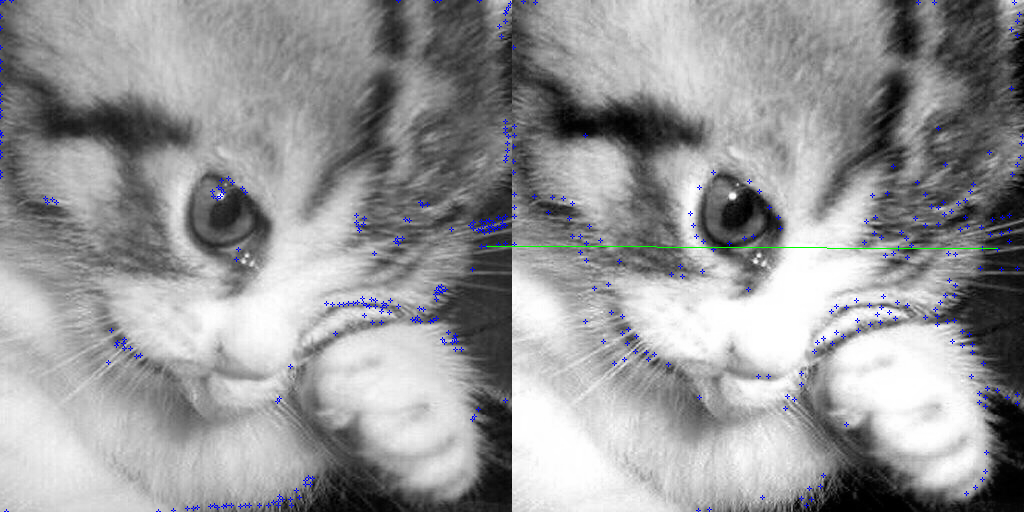
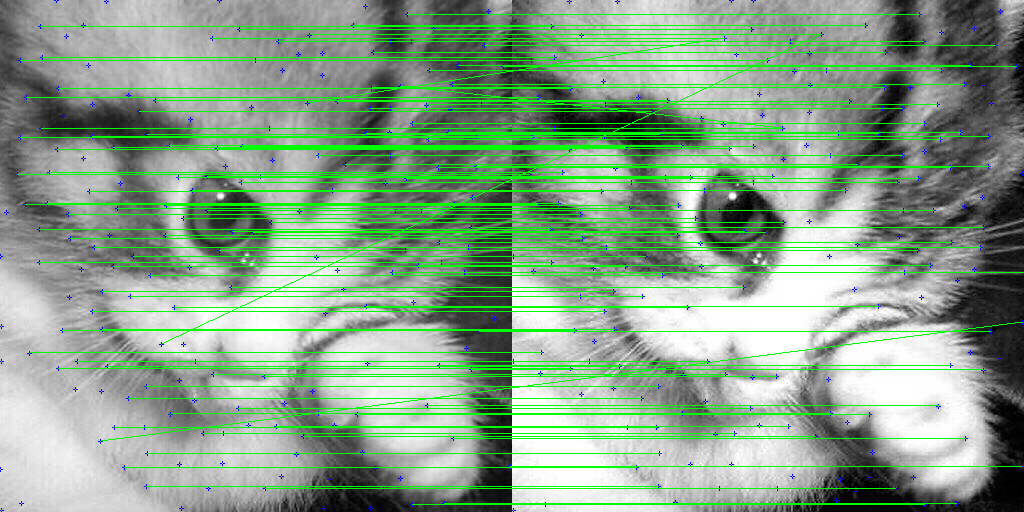
lab4 попытка 2

diff --git a/points/Harris.cpp b/points/Harris.cpp
@@ -4,48 +4,47 @@
 
 #include "Harris.h"
 #include "DataSaver.h"
+#include "../borders/ZeroBorderEffect.h"
 
 vector<InterestingPoint> Harris::makeHarris(DoubleImage &image, BorderEffectAction &action) {
-    int width = image.getWidth();
-    int height = image.getHeight();
-
-    auto gaussKernel = KernelFactory::GetGauss(WINDOW_RADIUS);
+    auto gauss = KernelFactory::GetGauss(WINDOW_RADIUS);
+    int gaussK = gauss.getWidth() / 2;
 
     auto dx = FiltersImplementation::derivativeX(image);
     auto dy = FiltersImplementation::derivativeY(image);
-    auto mins = vector<vector<double>>(width, vector<double>(height));
 
-    for (int x = 0; x < width; x++) {
-        for (int y = 0; y < height; y++) {
-            vector<vector<double>> currentMatrix(2, vector<double>(2, 0));
-            for (int u = -WINDOW_RADIUS; u <= WINDOW_RADIUS; u++) {
+    DoubleImage lambdas = image.withSameSize();
+    for(int x = 0; x < image.getWidth(); x++) {
+        for (int y = 0; y < image.getHeight(); y++) {
+            double A = 0, B = 0, C = 0;
+
+            for (int u = -WINDOW_RADIUS; u <= WINDOW_RADIUS; u++)
                 for (int v = -WINDOW_RADIUS; v <= WINDOW_RADIUS; v++) {
-                    double Ix = action.getPixel(dx, x + u, y + v);
-                    double Iy = action.getPixel(dy, x + u, y + v);
-                    double gaussPoint = gaussKernel(u + WINDOW_RADIUS, v + WINDOW_RADIUS);
-                    currentMatrix[0][0] += Ix * Ix * gaussPoint;
-                    currentMatrix[0][1] += Ix * Iy * gaussPoint;
-                    currentMatrix[1][0] += Ix * Iy * gaussPoint;
-                    currentMatrix[1][1] += Iy * Iy * gaussPoint;
+                    double multiplier = gauss(u + gaussK, v + gaussK);
+
+                    A += multiplier * sqr(action.getPixel(dx, x + u, y + v));
+                    B += multiplier * action.getPixel(dx, x + u, y + v) * action.getPixel(dy, x + u, y + v);
+                    C += multiplier * sqr(action.getPixel(dy, x + u, y + v));
                 }
+
+            lambdas(x, y) = calcLambdaMin(A, B, C);
+        }
+    }
+
+    lambdas = lambdas.normalize();
+    auto result = lambdas.withSameSize();
+
+    for(int x = 0; x < lambdas.getWidth(); x++) {
+        for (int y = 0; y < lambdas.getHeight(); y++) {
+            if (lambdas(x, y) <= MIN_PROBABILITY || hasLargerNeighbour(lambdas, x, y)) {
+                continue;
             }
-            vector<double> eigenvalues = getEigenValues(currentMatrix);
-            mins[x][y] = min(eigenvalues[0], eigenvalues[1]);
+            result(x, y) = lambdas(x, y);
         }
     }
-    auto candidates = DetectorUtil::getCandidates(mins, width, height);
-    auto filteredCandidates = vector<InterestingPoint>();
-    for (InterestingPoint point: candidates) {
-        if (point.getProbability() > MIN_PROBABILITY) {
-            filteredCandidates.push_back(point);
-        }
-    }
-    sort(filteredCandidates.begin(), filteredCandidates.end(), [](const InterestingPoint & a, const InterestingPoint & b) -> bool {
-        return b.getProbability() > a.getProbability();
-    });
-//    int right = filteredCandidates.size() > MAX_SIZE ? MAX_SIZE : filteredCandidates.size();
-    return DataSaver::saveData(image, mins, filteredCandidates, "Harris");
-//    return vector<InterestingPoint>(&filteredCandidates[0], &filteredCandidates[right]);
+
+    auto points = DetectorUtil::matToPoints(result);
+    return DetectorUtil::filter(points, 100, min(image.getHeight() / 2, image.getWidth() / 2));
 }
 
 vector<double> Harris::getEigenValues(vector<vector<double>> &matrix) {
@@ -69,4 +68,30 @@ vector<double> Harris::getEigenValues(vector<vector<double>> &matrix) {
 
 double Harris::sqr(double value) {
     return value * value;
+}
+
+double Harris::calcLambdaMin(double A, double B, double C) {
+    double a = 1, b = -(A + C), c = A * C - B * B;
+    double D = b * b - 4 * a * c;
+
+    if (D < 0 && D > -1e-6) D = 0;
+    if (D < 0) return 0;
+
+    double lambda1 = (-b + sqrt(D)) / (2 * a);
+    double lambda2 = (-b - sqrt(D)) / (2 * a);
+
+    return min(lambda1, lambda2);
+}
+
+bool Harris::hasLargerNeighbour(DoubleImage& image, int x, int y) {
+    ZeroBorderEffect effect;
+    for(int dx = -1; dx <= 1; dx++) {
+        for (int dy = -1; dy <= 1; dy++) {
+            if (dx == 0 && dy == 0)
+                continue;
+            if (effect.getPixel(image, x + dx, y + dy) - image(x, y) > 1e-4)
+                return true;
+        }
+    }
+    return false;
 }

diff --git a/descriptors/HistogramProcessor.cpp b/descriptors/HistogramProcessor.cpp
@@ -13,8 +13,66 @@ vector<Descriptor> HistogramProcessor::createDescriptors(DoubleImage &img) {
 
     Harris harris;
     auto points = harris.makeHarris(img);
+    auto gauss = KernelFactory::GetGauss(3);
 
-    return createDescriptors(gradient, gradientAngle, points);
+    vector<Descriptor> descriptors;
+    for (auto &point: points) {
+        vector<vector<vector<double>>> bins = calculateHistograms(gradient, x, y, gauss, gridSize, 4, basketSize, point, 0);
+        vector<double> v(gridSize * gridSize * basketSize);
+        for(int i = 0; i < gridSize; i++) {
+            for (int j = 0; j < gridSize; j++) {
+                for (int k = 0; k < basketSize; k++) {
+                    v[i * gridSize * basketSize + j * basketSize + k] = bins[i][j][k];
+                }
+            }
+        }
+        Descriptor d = Descriptor(point);
+        d.setDescriptor(v);
+        descriptors.push_back(d);
+    }
+    return descriptors;
+}
+
+vector<vector<vector<double>>> HistogramProcessor::calculateHistograms(DoubleImage& gradient, DoubleImage& dx, DoubleImage& dy, DoubleImage& gauss,
+                                        int gridSize, int blockSize, int binsCount,
+                                        InterestingPoint& center, double angle) {
+    CopyBorderEffect effect;
+    int gaussK = gauss.getWidth() / 2;
+
+    double PI = 3.141592653589793238462643;
+    vector<vector<vector<double>>> bins(gridSize, vector<vector<double>>(gridSize, vector<double>(binsCount)));
+    double step = 2 * PI / binsCount;
+
+    int from = gridSize * blockSize / 2, to = gridSize * blockSize - from;
+    for(int u = -from; u < to; u++)
+        for(int v = -from; v < to; v++) {
+            int x = center.getX() + u, y = center.getY() + v;
+
+            double theta = atan2(effect.getPixel(dy, x, y), effect.getPixel(dx, x, y)) + PI;
+            double value = effect.getPixel(gradient, x, y);
+
+            int rotatedU = (int)round(u * cos(angle) + v * sin(angle));
+            int rotatedV = (int)round(v * cos(angle) - u * sin(angle));
+
+            double rotatedTheta = theta - angle;
+            if(rotatedTheta < 0) rotatedTheta += PI * 2;
+
+            int column = (rotatedU + from) / blockSize;
+            int row = (rotatedV + from) / blockSize;
+
+            if(column < 0 || column >= gridSize || row < 0 || row >= gridSize) continue;
+
+            value = value * gauss(rotatedU + gaussK, rotatedV + gaussK);
+
+            int leftBin = min((int)floor(rotatedTheta / step), binsCount - 1);
+            int rightBin = (leftBin + 1) % binsCount;
+
+            double ratio = fmod(rotatedTheta, step) / step;
+            bins[row][column][leftBin] += value * (1 - ratio);
+            bins[row][column][rightBin] += value * ratio;
+        }
+
+    return bins;
 }
 
 vector<Descriptor> HistogramProcessor::createDescriptors(DoubleImage &gradient, DoubleImage &gradientAngle,

diff --git a/points/DetectorUtil.cpp b/points/DetectorUtil.cpp
@@ -41,7 +41,7 @@ vector<InterestingPoint> DetectorUtil::getCandidates(vector<vector<double>> valu
 vector<InterestingPoint> DetectorUtil::filter(vector<InterestingPoint> &points, int maxSize, int maxRadius) {
     vector<InterestingPoint> result(points);
     int r = 0;
-    /*while (result.size() > maxRadius && r < maxSize) {
+    while (result.size() > maxRadius && r < maxSize) {
         for (int i = 0; i < result.size(); i++) {
             for (int j = 0; j < result.size(); j++) {
                 double dist = InterestingPoint::distance(result[i], result[j]);
@@ -55,7 +55,7 @@ vector<InterestingPoint> DetectorUtil::filter(vector<InterestingPoint> &points, 
             }
         }
         r++;
-    }*/
+    }
     sort(result.begin(), result.end(), [](const InterestingPoint & a, const InterestingPoint & b) -> bool {
         return b.getProbability() > a.getProbability();
     });
@@ -63,4 +63,12 @@ vector<InterestingPoint> DetectorUtil::filter(vector<InterestingPoint> &points, 
         result = vector<InterestingPoint>(&result[0], &result[200]);
     }
     return result;
+}
+
+vector<InterestingPoint> DetectorUtil::matToPoints(DoubleImage &mat) {
+    vector<InterestingPoint> list;
+    for (int x = 0; x < mat.getWidth(); x++)
+        for (int y = 0; y < mat.getHeight(); y++)
+            if (mat(x, y) > 1e-6) list.emplace_back(x, y, mat(x, y));
+    return list;
 }

diff --git a/image/DoubleImage.cpp b/image/DoubleImage.cpp
@@ -16,7 +16,7 @@ DoubleImage::DoubleImage(const QString& name) {
     data = vector<double>(width * height);
     for (int x = 0; x < width; x++) {
         for (int y = 0; y < height; y++) {
-            (*this)(x, y) = (0.229 * image.pixelColor(x, y).red() + 0.587 * image.pixelColor(x, y).green() + 0.114 * image.pixelColor(x, y).blue()) / 255.;
+            (*this)(x, y) = (0.213 * image.pixelColor(x, y).red() + 0.715 * image.pixelColor(x, y).green() + 0.072 * image.pixelColor(x, y).blue()) / 255.;
         }
     }
 }
@@ -99,5 +99,9 @@ DoubleImage::DoubleImage(const DoubleImage &image) {
     for (int i = 0; i < size(); i++) {
         data[i] = image.data[i];
     }
+}
+
+DoubleImage DoubleImage::withSameSize() {
+    return DoubleImage(vector<double>(width * height), height, width);
 }
 

diff --git a/descriptors/HistogramProcessor.h b/descriptors/HistogramProcessor.h
@@ -7,6 +7,7 @@
 
 
 #include "../image/DoubleImage.h"
+#include <cmath>
 #include "MatchData.h"
 #include "DescriptorUtil.h"
 #include "HistogramDescriptor.h"
@@ -23,6 +24,10 @@ private:
     vector<Descriptor> createDescriptors(DoubleImage &img);
 
     vector<Descriptor> createDescriptors(DoubleImage &gradient, DoubleImage &gradientAngle, vector<InterestingPoint> &points);
+
+    vector<vector<vector<double>>> calculateHistograms(DoubleImage& gradient, DoubleImage& dx, DoubleImage& dy, DoubleImage& gauss,
+                                                      int gridSize, int blockSize, int binsCount,
+                                                       InterestingPoint& center, double angle);
 
 public:
     DoubleImage &getFirstImage();

diff --git a/points/Harris.h b/points/Harris.h
@@ -21,10 +21,12 @@ private:
     static constexpr CopyBorderEffect DEFAULT_BORDER = CopyBorderEffect();
     vector<double> getEigenValues(vector<vector<double>> &mat);
     double sqr(double value);
-    double MIN_PROBABILITY = 0.005;
+    double MIN_PROBABILITY = 0.01;
     const int WINDOW_RADIUS = 3;
+    double calcLambdaMin(double A, double B, double C);
+    bool hasLargerNeighbour(DoubleImage& image, int x, int y);
 public:
-    vector<InterestingPoint> makeHarris(DoubleImage &image, BorderEffectAction &action =  (BorderEffectAction &) DEFAULT_BORDER);
+    vector<InterestingPoint> makeHarris(DoubleImage &image, BorderEffectAction &action = (BorderEffectAction &) DEFAULT_BORDER);
 };
 
 

diff --git a/points/DetectorUtil.h b/points/DetectorUtil.h
@@ -9,6 +9,7 @@
 #include <map>
 #include <algorithm>
 #include "InterestingPoint.h"
+#include "../image/DoubleImage.h"
 
 using namespace std;
 
@@ -18,6 +19,8 @@ public:
     static vector<InterestingPoint> getCandidates(vector<vector<double>> values, int width, int height);
 
     static vector<InterestingPoint> filter(vector<InterestingPoint> &points, int maxSize, int maxRadius);
+
+    static vector<InterestingPoint> matToPoints(DoubleImage& mat);
 };
 
 

diff --git a/descriptors/DescriptorUtil.cpp b/descriptors/DescriptorUtil.cpp
@@ -39,7 +39,7 @@ Descriptor* DescriptorUtil::getClosest(Descriptor &descriptor,vector<Descriptor>
     int b = getMinIndex(distances, a);
 
     double r = distances[a] / distances[b];
-    return (r <= 0.5) ? &descriptors[a] : nullptr;
+    return (r <= 0.8) ? &descriptors[a] : nullptr;
 }
 
 int DescriptorUtil::getMinIndex(vector<double> distances, int excludeIndex) {

diff --git a/descriptors/Descriptor.h b/descriptors/Descriptor.h
@@ -11,11 +11,11 @@
 
 class Descriptor {
 protected:
-    Descriptor(InterestingPoint point);
-
     vector<double> descriptor;
     InterestingPoint point;
 public:
+
+    Descriptor(InterestingPoint point);
     const InterestingPoint &getPoint() const;
 
     const vector<double> &getDescriptor() const;

diff --git a/labs/lab4.h b/labs/lab4.h
@@ -6,6 +6,7 @@
 #define ITOI_LAB4_H
 
 #include "../image/DoubleImage.h"
+#include "../descriptors/HistogramProcessor.h"
 
 class lab4 {
 public:

diff --git a/labs/lab4.cpp b/labs/lab4.cpp
@@ -3,7 +3,6 @@
 //
 
 #include "lab4.h"
-#include "../descriptors/HistogramProcessor.h"
 
 void lab4::run() {
     DoubleImage cat("cat.jpg");

diff --git a/image/DoubleImage.h b/image/DoubleImage.h
@@ -43,6 +43,8 @@ public:
     long size();
 
     vector<double>& getData();
+
+    DoubleImage withSameSize();
 };
 
 
